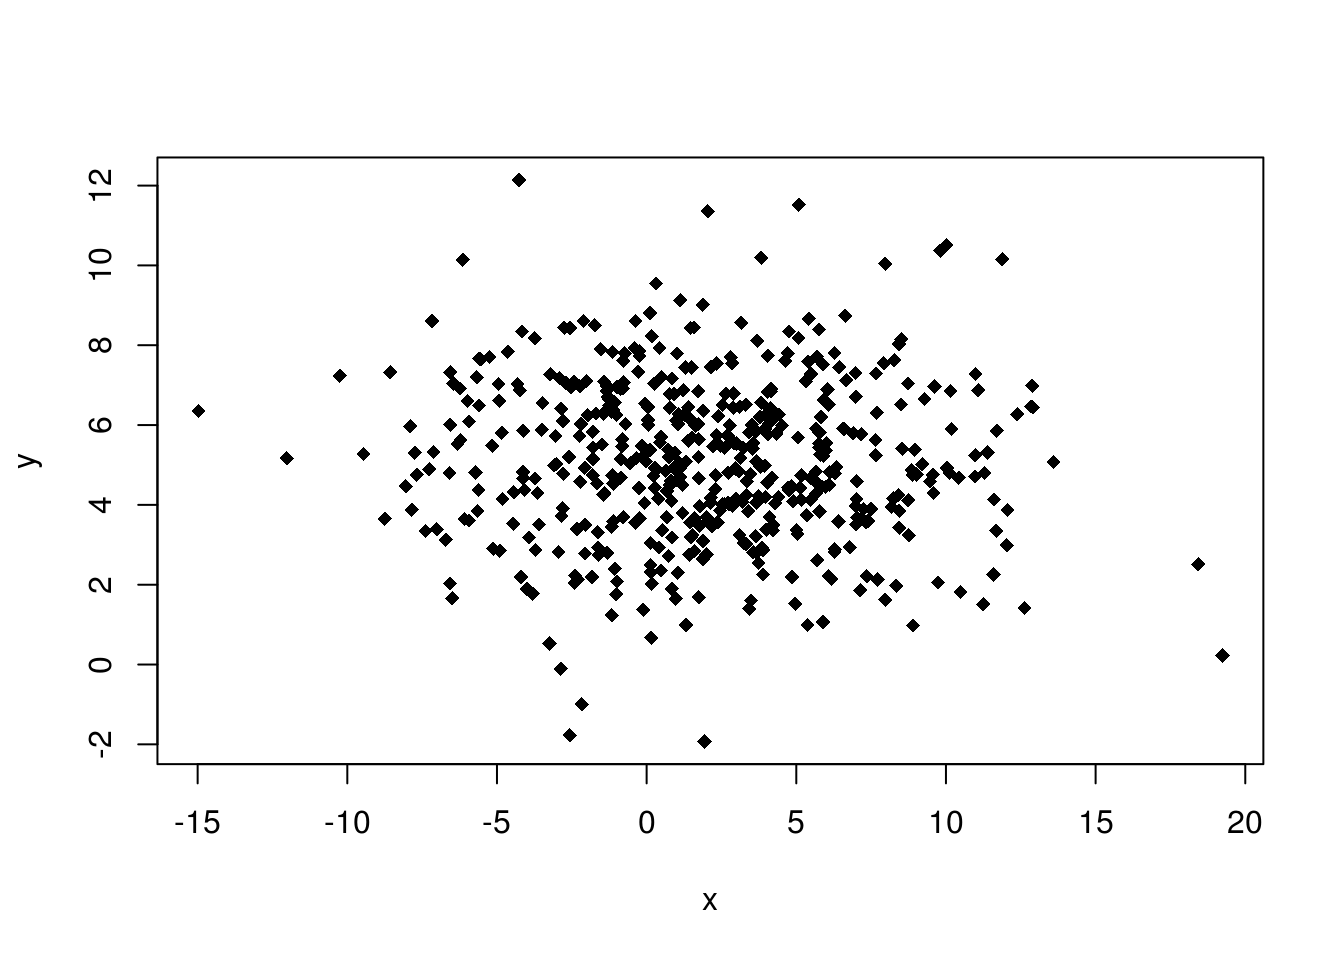
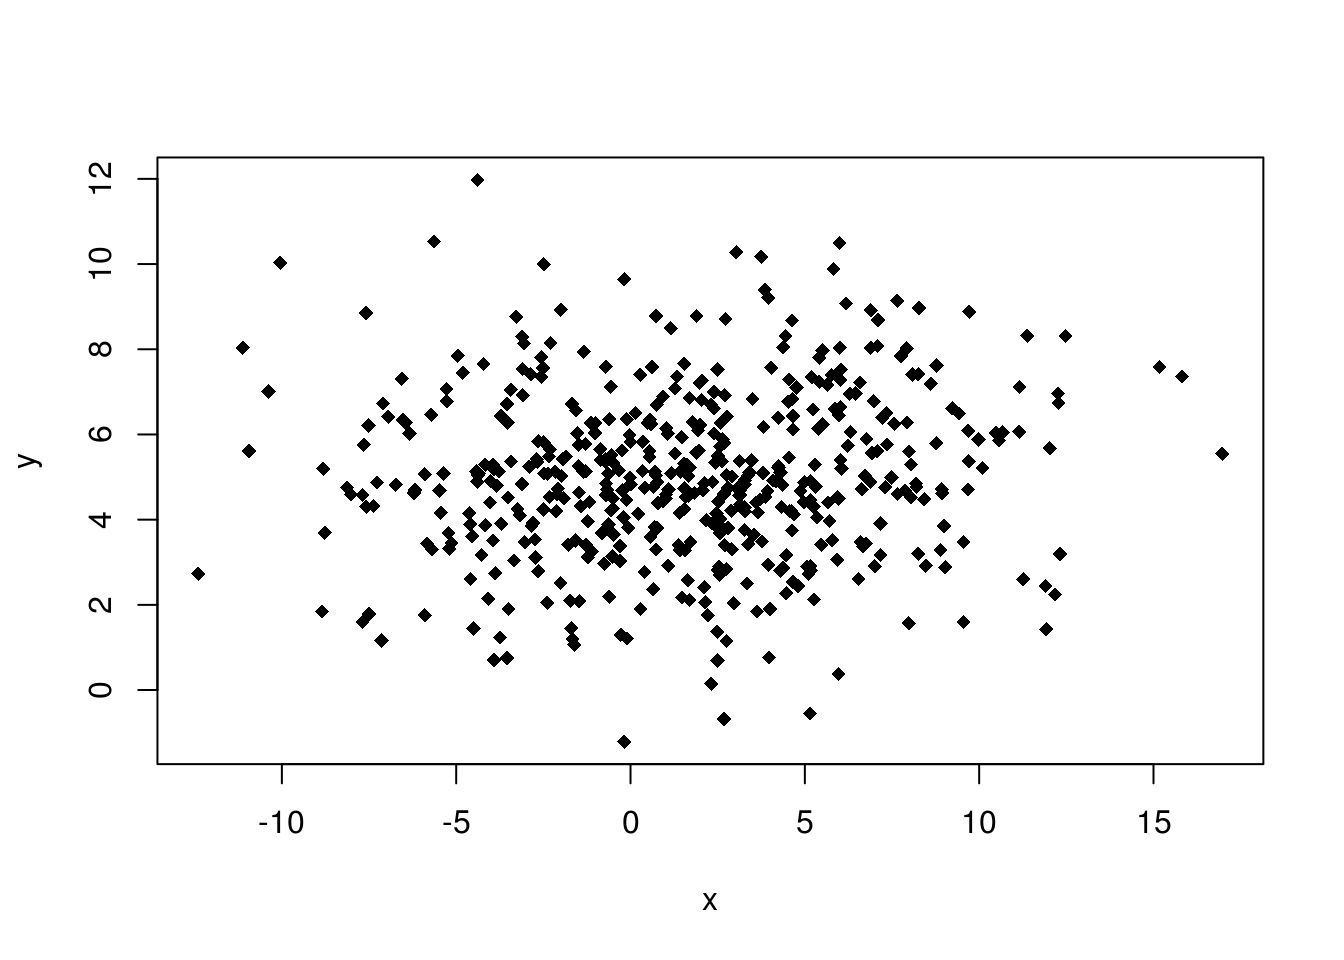
Go!

diff --git a/l1.html b/l1.html
@@ -11,7 +11,7 @@
 
 
 
-<title>Laboratorios</title>
+<title>Laboratorio # 1</title>
 
 <script src="site_libs/jquery-1.11.3/jquery.min.js"></script>
 <meta name="viewport" content="width=device-width, initial-scale=1" />
@@ -202,13 +202,62 @@ $(document).ready(function () {
 
 
 
-<h1 class="title toc-ignore">Laboratorios</h1>
+<h1 class="title toc-ignore">Laboratorio # 1</h1>
 
 </div>
 
 
-<div id="laboratorio-1-httpsdidier-murillo.netlify.coml1" class="section level3">
-<h3>[Laboratorio 1] (<a href="https://didier-murillo.netlify.com/l1" class="uri">https://didier-murillo.netlify.com/l1</a>)</h3>
+<div id="su-informe-de-laboratorio-debe-ser-guardado-en-formato-pdf-y-enviado-al-profesor-via-correo-electronico-al-finalizar-la-clase." class="section level3">
+<h3>Su informe de laboratorio debe ser guardado en formato PDF y enviado al profesor vía correo electrónico al finalizar la clase.</h3>
+</div>
+<div id="puntaje-7-puntos-de-bono-para-el-examen-1" class="section level3">
+<h3><strong>Puntaje:</strong> 7 puntos de BONO para el examen # 1</h3>
+</div>
+<div id="parte-1" class="section level3">
+<h3><span style="color:red">Parte 1</span></h3>
+<p>Use la siguiente información para responder las siguientes preguntas:</p>
+<pre class="r"><code> # tipos de frutas
+ Frutas &lt;- factor(sample(c(&quot;CHINA&quot;,&quot;KIWI&quot;,&quot;UVA&quot;,&quot;FRESA&quot;),size = 500,replace = TRUE))
+ # precio en dolares por cada 5 libras 
+ Precio &lt;- round(c(rnorm(180,5,1),rgamma(20,2,5),rnorm(300,15,2)),1)</code></pre>
+<ol style="list-style-type: lower-alpha">
+<li>Construya un data frame con los dos vectores anteriores. Debe asignarle el nombre <code>datos_frutas</code> Su data frame debe lucir de la siguiente manera:</li>
+</ol>
+<pre><code>##    Precio Frutas
+## 1     5.3  CHINA
+## 2     3.2  CHINA
+## 3     4.2  FRESA
+## 4     5.1  CHINA
+## 5     4.7    UVA
+## 6     4.2  FRESA
+## 7     5.1    UVA
+## 8     5.1  FRESA
+## 9     5.3   KIWI
+## 10    5.7   KIWI</code></pre>
+<ol start="2" style="list-style-type: lower-alpha">
+<li>Calcular la media, mediana, desviación estándar y el rango intercuartílico para el precio de cada fruta. Puede usar el siguiente código. solo debe cambiar el nombre de la función en <code>FUN=</code>.</li>
+</ol>
+<pre class="r"><code> aggregate(datos_frutas$Precio, by=list(datos_frutas$Frutas), FUN=mean)[c(1,2)]</code></pre>
+<ol start="3" style="list-style-type: lower-alpha">
+<li>Con los datos obtenidos en b)</li>
+</ol>
+<ul>
+<li>En promedio cual es la fruta más costosa</li>
+<li>Según la media y la mediana. ¿Son simétricas las distribuciones del precio de cada fruta?</li>
+<li>Según el RIC ¿Cuál es la fruta que tiene mayor variabilidad en su precio?</li>
+</ul>
+<ol start="4" style="list-style-type: lower-alpha">
+<li><p>Use la función <code>boxplot</code> para hacer un boxplot por grupos. Cada tipo de fruta es un grupo. Debe dar un color diferente a cada boxplot. Debe dar título que incluya su nombre de estudiante. Debe dar nombre para los ejes-y y x.</p></li>
+<li><p>Interprete el boxplot anterior y comente sobre la simetría de las distribuciones del precio de la fruta.</p></li>
+<li><p>Ejecute el siguiente código. Debe cambiar el color en cada histogrma, use colores diferentes. Tambien debe asignar título a cada gráfica siguiendo el ejemplo de la primera.</p></li>
+</ol>
+<pre class="r"><code> par(mfrow=c(2,2))
+ hist(datos_frutas$Precio[datos_frutas$Frutas== &quot;CHINA&quot;],xlab = &quot;&quot;,main = &quot;Histograma: Precio del CHINA&quot;)
+ hist(datos_frutas$Precio[datos_frutas$Frutas== &quot;FRESA&quot;],xlab = &quot;&quot;)
+ hist(datos_frutas$Precio[datos_frutas$Frutas== &quot;KIWI&quot;],xlab = &quot;&quot;)
+ hist(datos_frutas$Precio[datos_frutas$Frutas== &quot;UVA&quot;],xlab = &quot;&quot;)</code></pre>
+<p><img src="l1_files/figure-html/unnamed-chunk-5-1.png" width="672" /></p>
+<p>Ya usted conoce los datos de la media del precio de cada fruta. Ahora viendo los histogramas, ¿Cree usted que la media nos da un buen valor para aproximar el valor promedio de cada fruta? Explique!</p>
 </div>
 
 

diff --git a/d_muestral.html b/d_muestral.html
@@ -260,16 +260,16 @@ for (i in 1:30){
 }
 #d_mean
 mean(d_mean)</code></pre>
-<pre><code>## [1] 10.375</code></pre>
+<pre><code>## [1] 10.45</code></pre>
 <pre class="r"><code>sd(d_mean)</code></pre>
-<pre><code>## [1] 2.661791</code></pre>
+<pre><code>## [1] 2.574242</code></pre>
 <ol start="3" style="list-style-type: decimal">
 <li>Tercero, calculamos las medias de todas esas muestras y tratamos de ver gráficamente mediante un histograma al menos si hay acercamiento a Normalidad.</li>
 </ol>
 <pre class="r"><code>mean(d_mean)</code></pre>
-<pre><code>## [1] 10.375</code></pre>
+<pre><code>## [1] 10.45</code></pre>
 <pre class="r"><code>sd(d_mean)</code></pre>
-<pre><code>## [1] 2.661791</code></pre>
+<pre><code>## [1] 2.574242</code></pre>
 <p>Interpretación: Notar que la media de las medias muestrales es <span class="math inline">\(\mu_{\bar{X}}=10.075\)</span> que está bien cerca de la media poblacional . Además la desviación estándar de la media muestral es 2.806 mientras que <span class="math inline">\(\sigma/\sqrt{n}=5.418/2=2.709\)</span>. Ambos valores también están relativamente cerca. El histograma si está un poco alejado de la normalidad. Si se incrementa el tamaño de las muestras se puede notar una mejor aproximación a la Normal.</p>
 <pre class="r"><code>hist(d_mean,col = &quot;blue&quot;,freq = F)</code></pre>
 <p><img src="d_muestral_files/figure-html/unnamed-chunk-4-1.png" width="672" /></p>

diff --git a/correlacion.html b/correlacion.html
@@ -262,7 +262,7 @@ plot(x,y,pch=18)</code></pre>
 <p><img src="correlacion_files/figure-html/unnamed-chunk-4-1.png" width="672" /></p>
 <p>¿Cuánto es la correlación entre <code>x</code> e <code>y</code>?</p>
 <pre class="r"><code>cor(x,y)</code></pre>
-<pre><code>## [1] -0.04880514</code></pre>
+<pre><code>## [1] 0.07948776</code></pre>
 <p>El coeficiente de correlación es similar a la media, mediana, desviación estándar, Q1, etc .: viene en dos versiones:</p>
 <ul>
 <li><p>Es una estadístico cuando se encuentra a partir de una muestra</p></li>

diff --git a/dNormal.html b/dNormal.html
@@ -343,8 +343,8 @@ Notas &lt;- rnorm(30,75,10)
 # Redondeando los resultados
 Notas &lt;- round(Notas,digits = 0)
 print(Notas)</code></pre>
-<pre><code>##  [1] 77 84 68 56 74 68 70 69 74 64 74 78 93 83 68 72 61 68 92 71 76 82 70
-## [24] 70 58 86 78 84 55 64</code></pre>
+<pre><code>##  [1] 70 70 74 88 68 79 73 68 90 93 83 86 81 96 79 63 85 83 69 80 72 79 62
+## [24] 76 79 89 74 67 60 70</code></pre>
 <p><strong>¿Cuál es la probabilidad que un estudiante tenga más 73 en la nota?</strong></p>
 <hr />
 <hr />
